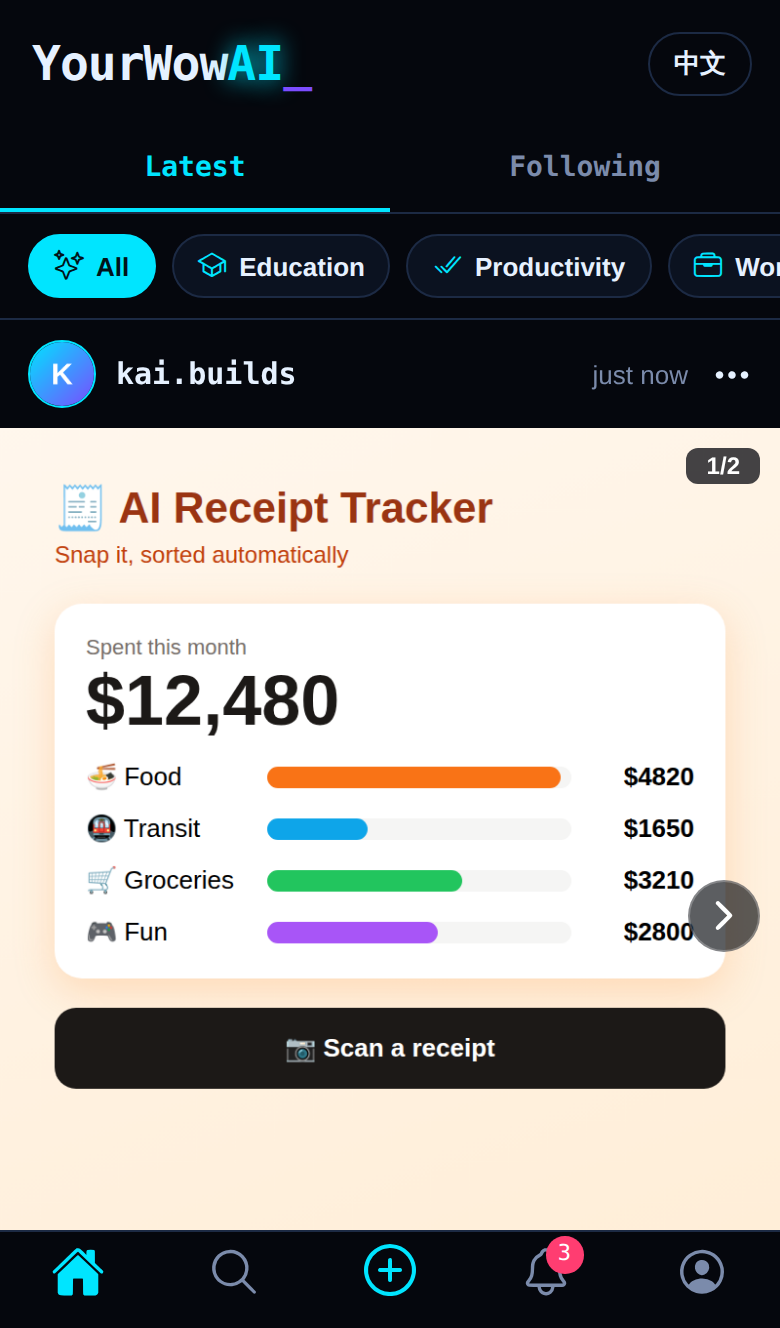
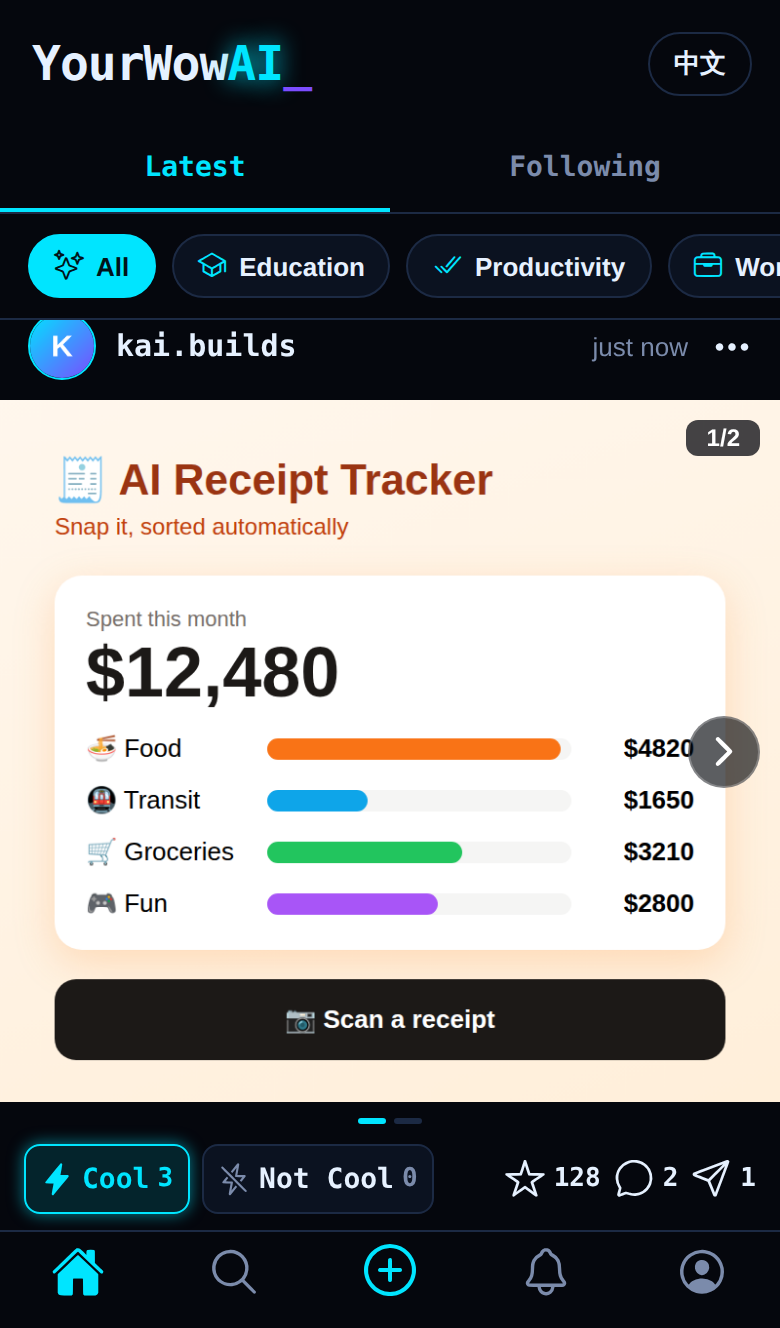
Site: hero and gallery feed screenshot shows the Cool / Not Cool row
New EN and 中文 feed screenshots (780x1328) with the post's action row
in view: Cool 3 · Not Cool 0 · GitHub stars · comments · shares. The
image links carry ?v= so browsers fetch the new screenshots.

Claude-Session: https://claude.ai/code/session_01QmTfduErPhUtKAHBvsP64j

Changed region(s): [[0.0, 0.2161, 1.0, 0.9571]]

diff --git a/index.html b/index.html
@@ -62,7 +62,7 @@
       <svg class="sparkle" width="14" height="14" viewBox="0 0 24 24" aria-hidden="true" style="bottom: 36px; right: 34px;"><path d="M12 2l2.2 7.8L22 12l-7.8 2.2L12 22l-2.2-7.8L2 12l7.8-2.2z" fill="#7c4dff"></path></svg>
       <svg class="sparkle" width="10" height="10" viewBox="0 0 24 24" aria-hidden="true" style="top: 40%; right: 28px;"><circle cx="12" cy="12" r="6" fill="#ffffff" opacity="0.6"></circle></svg>
       <div class="phone">
-        <img src="assets/screens/en/feed.png" width="780" height="1328" alt="YourWowAI feed: an AI receipt tracker shared by a user, with Cool and Not Cool buttons">
+        <img src="assets/screens/en/feed.png?v=20261027" width="780" height="1328" alt="YourWowAI feed: an AI receipt tracker shared by a user, with Cool and Not Cool buttons">
       </div>
     </div>
   </div>
@@ -154,7 +154,7 @@
       <p>Real app screens. The app is available in English and Traditional Chinese.</p>
     </div>
     <div class="gallery" tabindex="0" aria-label="App screenshots, scroll sideways">
-      <figure><div class="phone"><img src="assets/screens/en/feed.png" width="780" height="1328" loading="lazy" alt="Feed with Cool and Not Cool buttons"></div><figcaption>Your work, shared</figcaption></figure>
+      <figure><div class="phone"><img src="assets/screens/en/feed.png?v=20261027" width="780" height="1328" loading="lazy" alt="Feed with Cool and Not Cool buttons"></div><figcaption>Your work, shared</figcaption></figure>
       <figure><div class="phone"><img src="assets/screens/en/post.png" width="780" height="1328" loading="lazy" alt="Post page with AI tool tags, a try-it button and comments"></div><figcaption>Comments and feedback</figcaption></figure>
       <figure><div class="phone"><img src="assets/screens/en/explore.png" width="780" height="1328" loading="lazy" alt="Explore page with search, AI tool tags and a grid of projects"></div><figcaption>Discovered by AI tool</figcaption></figure>
       <figure><div class="phone"><img src="assets/screens/en/notifications.png" width="780" height="1328" loading="lazy" alt="Notifications for comments, Cool votes and follows"></div><figcaption>Know when it lands</figcaption></figure>

diff --git a/zh/index.html b/zh/index.html
@@ -67,7 +67,7 @@
       <svg class="sparkle" width="14" height="14" viewBox="0 0 24 24" aria-hidden="true" style="bottom: 36px; right: 34px;"><path d="M12 2l2.2 7.8L22 12l-7.8 2.2L12 22l-2.2-7.8L2 12l7.8-2.2z" fill="#7c4dff"></path></svg>
       <svg class="sparkle" width="10" height="10" viewBox="0 0 24 24" aria-hidden="true" style="top: 40%; right: 28px;"><circle cx="12" cy="12" r="6" fill="#ffffff" opacity="0.6"></circle></svg>
       <div class="phone">
-        <img src="../assets/screens/feed.png" width="780" height="1328" alt="YourWowAI 動態牆：阿凱分享的「AI 發票記帳」，下方有 Cool 和 Not Cool 按鈕">
+        <img src="../assets/screens/feed.png?v=20261027" width="780" height="1328" alt="YourWowAI 動態牆：阿凱分享的「AI 發票記帳」，下方有 Cool 和 Not Cool 按鈕">
       </div>
     </div>
   </div>
@@ -162,7 +162,7 @@
       <p>真實的 App 畫面。</p>
     </div>
     <div class="gallery" tabindex="0" aria-label="App 畫面截圖，可以左右捲動">
-      <figure><div class="phone"><img src="../assets/screens/feed.png" width="780" height="1328" loading="lazy" alt="動態牆與 Cool 按鈕"></div><figcaption>分享出去的作品</figcaption></figure>
+      <figure><div class="phone"><img src="../assets/screens/feed.png?v=20261027" width="780" height="1328" loading="lazy" alt="動態牆與 Cool 按鈕"></div><figcaption>分享出去的作品</figcaption></figure>
       <figure><div class="phone"><img src="../assets/screens/post.png" width="780" height="1328" loading="lazy" alt="貼文頁：AI 工具標籤、試用工具按鈕與留言"></div><figcaption>收到留言與回饋</figcaption></figure>
       <figure><div class="phone"><img src="../assets/screens/explore.png" width="780" height="1328" loading="lazy" alt="探索頁：搜尋框、AI 工具標籤與作品九宮格"></div><figcaption>被搜尋、被發現</figcaption></figure>
       <figure><div class="phone"><img src="../assets/screens/notifications.png" width="780" height="1328" loading="lazy" alt="通知頁：留言、Cool、追蹤通知"></div><figcaption>收到 Cool 的通知</figcaption></figure>
